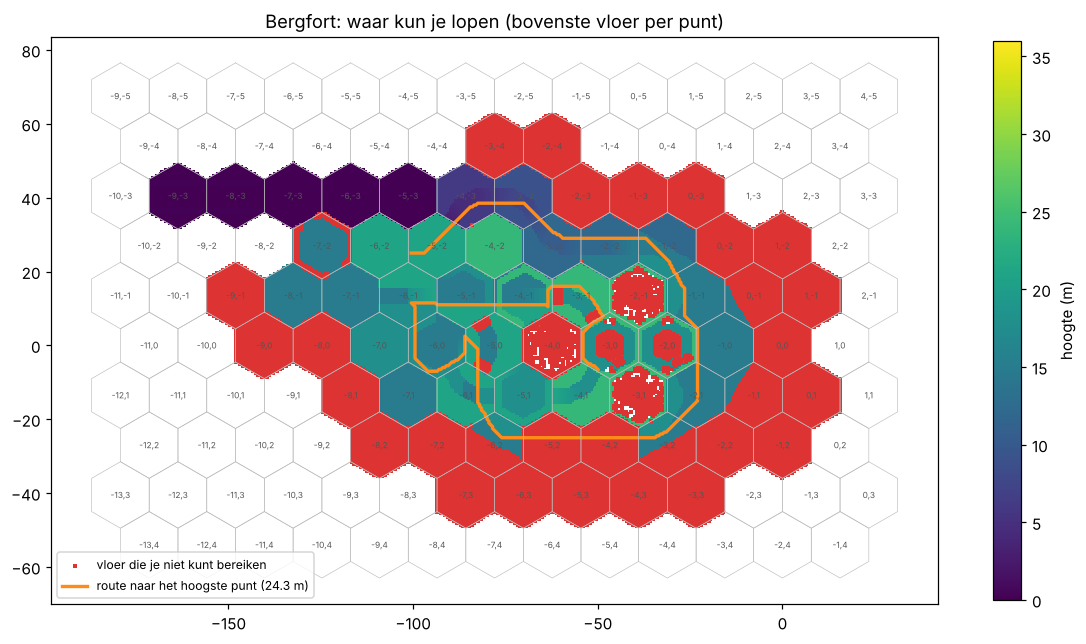
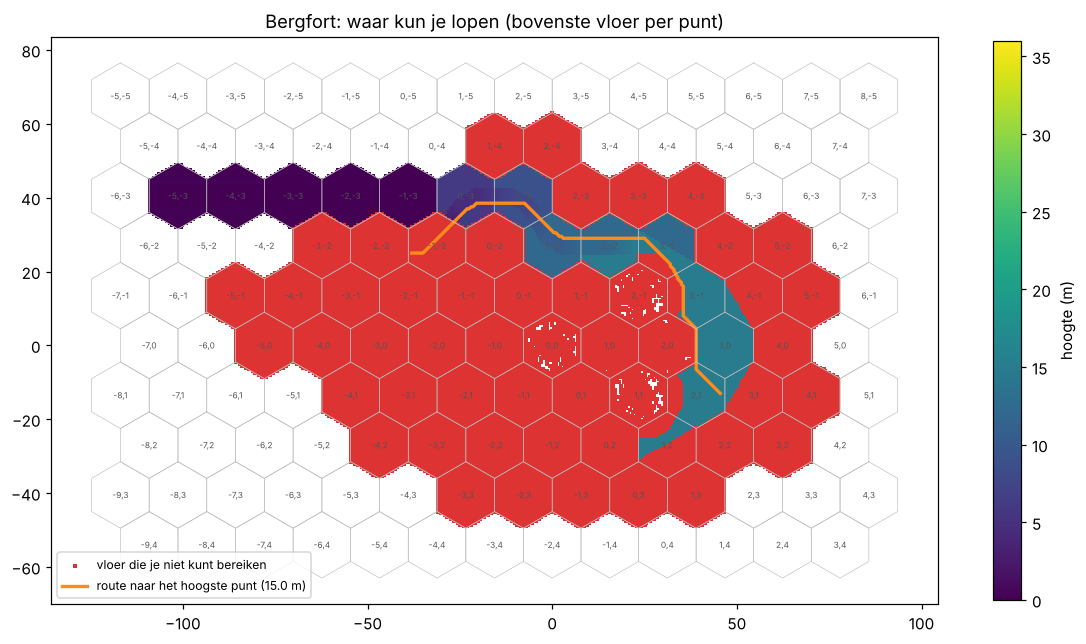
Bergfort aanvullen in de stad: een SketchUp-module springt bovenop wat onder de muis staat (op halve verdiepingen), en 'Bewaar de stad als fort' maakt een eigen fort in de Modulekaart met 'Download voor Claude' (JSON voor looproute.py en pad_af.py)
Claude-Session: https://claude.ai/code/session_017Uwb8JbaAuPpTgYy4yJLGS

diff --git a/src/js/15j3-skp-bouwen.js b/src/js/15j3-skp-bouwen.js
@@ -41,10 +41,26 @@
       while (ghost.children.length) ghost.remove(ghost.children[0]);
       for (const it of st.items) { const A = rot(it.a, st.k), d = rot([it.d[0], it.d[1], 0, 0, 0, 0, 0, 0, 0], st.k); const me = new THREE.Mesh(worldGeo(it.mi), ghostMat); me.matrixAutoUpdate = false; matrix(it.mi, A, [d[0], d[1], it.h + st.dh], me.matrix); me.matrixWorldNeedsUpdate = true; ghost.add(me); }
     }
+    // de bovenkant van de SketchUp-modules in een vak (0 als er niets staat)
+    function stapelTop(q, r) {
+      let top = -Infinity; const b = new THREE.Box3();
+      for (const me of group.children) { const rec = cells.skp[me.userData.skp]; if (rec && rec.q === q && rec.r === r) top = Math.max(top, b.setFromObject(me).max.y); }
+      return top;
+    }
+    const ray = new THREE.Raycaster(), ndc = new THREE.Vector2();
     function moveGhost(cx, cy) {
+      // eerst de SketchUp-modules zelf: een bovenkant onder de muis = daarop bouwen, een zijkant = bovenop die stapel
+      ndc.set(cx / window.innerWidth * 2 - 1, -(cy / window.innerHeight) * 2 + 1); ray.setFromCamera(ndc, camera);
+      const hm = ray.intersectObjects(group.children)[0];
+      if (hm) {
+        const [q, r] = worldToCell(hm.point.x, hm.point.z), w = cellToWorld(q, r), n = hm.face ? hm.face.normal.clone().transformDirection(hm.object.matrixWorld) : null;
+        const op = n && Math.abs(n.y) > 0.7 ? hm.point.y : stapelTop(q, r);
+        st.cell = [q, r]; st.base = Math.max(terrainHeightAt(w.x, w.z), Math.round((isFinite(op) ? op : hm.point.y) / 1.5) * 1.5);
+        ghost.position.set(w.x, st.base, w.z); ghost.visible = true; setHint(); return;
+      }
       const h = pick(cx, cy); if (!h || !h.point) { ghost.visible = false; st.cell = null; return; }
       const [q, r] = worldToCell(h.point.x, h.point.z), w = cellToWorld(q, r);
-      st.cell = [q, r]; st.base = terrainHeightAt(w.x, w.z);
+      st.cell = [q, r]; st.base = Math.max(terrainHeightAt(w.x, w.z), stapelTop(q, r)); setHint();
       ghost.position.set(w.x, st.base, w.z); ghost.visible = true;
     }
     function place() {
@@ -64,7 +80,7 @@
       const hit = ray.intersectObjects(group.children)[0]; if (!hit) return toast('Hier staat geen SketchUp-module', 1200);
       const i = hit.object.userData.skp, n = cells.skp[i].n; cells.skp.splice(i, 1); build(); changed(); toast(n + ' weggehaald', 1200);
     }
-    function setHint() { hint.innerHTML = `<b>${st.naam}</b> neerzetten${st.k ? ' · ' + st.k * 60 + '° gedraaid' : ''}${st.dh ? ' · ' + (st.dh > 0 ? '+' : '') + st.dh + ' m' : ''}<small>klik = neerzetten · R = draaien · Page Up/Down = hoger/lager · Shift+klik = weghalen · Backspace = terug · Esc = klaar</small>`; }
+    function setHint() { hint.innerHTML = `<b>${st.naam}</b> neerzetten${st.k ? ' · ' + st.k * 60 + '° gedraaid' : ''}${st.cell ? ' · op ' + String(+(st.base + st.dh).toFixed(1)).replace('.', ',') + ' m' : ''}<small>klik = neerzetten (bovenop wat onder de muis staat) · R = draaien · Page Up/Down = hoger/lager · Shift+klik = weghalen · Backspace = terug · Esc = klaar</small>`; }
     function start(opt) {
       if (mode === 'walk') { document.getElementById('modeBtn').click(); }
       st.items = []; st.k = 0; st.dh = 0;
@@ -76,6 +92,33 @@
         st.items = P.map(p => ({ mi: p.mi, a: p.a, d: [p.m[0] - mid[0], p.m[1] - mid[1]], h: p.m[2] })); st.naam = F.forten[opt.fort].naam;
       } else { st.items = [{ mi: idx.get(opt.naam), a: ID, d: [0, 0], h: 0 }]; st.naam = opt.naam; }
       st.on = true; buildGhost(); setHint(); hint.hidden = false;
+    }
+    // ---------- de SketchUp-modules in de stad bewaren als fort (eigen versie van het bergfort) ----------
+    // Een eigen fort staat in localStorage (raat-eigen-forten) en verschijnt als pagina in de Modulekaart. Download geeft
+    // hetzelfde als JSON voor de gereedschappen in tools/sketchup (looproute.py, pad_af.py): { plaatsen: [[naam, matrix]] }.
+    const EIGEN = 'raat-eigen-forten';
+    const eigen = (() => { try { return JSON.parse(localStorage.getItem(EIGEN) || '[]'); } catch (e) { return []; } })();
+    for (const f of eigen) F.forten.push(f);
+    function alsFort(naam) {
+      const L = (cells && cells.skp) || []; if (!L.length) return null;
+      const y0 = Math.min(...L.map(r => r.y)), mq = Math.round(L.reduce((a, r) => a + r.q, 0) / L.length), mr = Math.round(L.reduce((a, r) => a + r.r, 0) / L.length);
+      const [sx, sy] = suMid(mq, mr), p = [];
+      for (const rec of L) {
+        const mi = idx.get(rec.n); if (mi === undefined) continue;
+        const A = rec.a || ID, c = F.mods[mi].c, cx = c[0] / 100, cy = c[1] / 100, [x, y] = suMid(rec.q, rec.r), o = rec.o || [0, 0];
+        const P = [x + o[0] - sx, y + o[1] - sy, rec.y - y0];
+        p.push([mi, ...A.map(v => +v.toFixed(5)), ...[P[0] - (A[0] * cx + A[3] * cy), P[1] - (A[1] * cx + A[4] * cy), P[2] - (A[2] * cx + A[5] * cy)].map(v => Math.round(v * 100))]);
+      }
+      let fi = F.forten.findIndex(f => f.naam === naam);
+      const f = { naam, p, eigen: true };
+      if (fi < 0) { F.forten.push(f); fi = F.forten.length - 1; } else F.forten[fi] = f;
+      try { localStorage.setItem(EIGEN, JSON.stringify(F.forten.filter(x => x.eigen))); } catch (e) { }
+      return fi;
+    }
+    function download(fi) {
+      const f = F.forten[fi], plaatsen = f.p.map(p => [F.mods[p[0]].n, [p[1], p[2], p[3], 0, p[4], p[5], p[6], 0, p[7], p[8], p[9], 0, p[10], p[11], p[12], 1]]);
+      const a = document.createElement('a'); a.href = URL.createObjectURL(new Blob([JSON.stringify({ bestand: 'webversie: ' + f.naam, plaatsen })], { type: 'application/json' }));
+      a.download = 'raatstad-' + f.naam.toLowerCase().replace(/[^a-z0-9]+/g, '-').replace(/^-|-$/g, '') + '.json'; document.body.appendChild(a); a.click(); a.remove(); setTimeout(() => URL.revokeObjectURL(a.href), 5000);
     }
     function stop() { st.on = false; ghost.visible = false; hint.hidden = true; }
     window.addEventListener('pointermove', e => { if (st.on && e.target === canvas) moveGhost(e.clientX, e.clientY); });
@@ -95,5 +138,6 @@
       else used = false;
       if (used) { e.preventDefault(); e.stopImmediatePropagation(); }
     }, true);
-    return { build, start, stop, get on() { return st.on; } };
+    return { build, start, stop, alsFort, download, get on() { return st.on; }, get aantal() { return ((cells && cells.skp) || []).length; } };
   })();
+  window.__skpBouw = skpBouw;   // voor de visuele tests

diff --git a/test/visueel/skp_aanvullen.js b/test/visueel/skp_aanvullen.js
@@ -1,0 +1,34 @@
+// Het bergfort in de stad aanvullen: een module springt bovenop het fort, en de stad wordt bewaard als eigen fort (met download).
+const { open, OUT } = require('./helper');
+const path = require('path');
+(async () => {
+  const { b, p } = await open({ width: 1440, height: 900 });
+  await p.evaluate(() => window.__SC().doAct('empty')); await p.waitForTimeout(800);
+  await p.keyboard.press('KeyK'); await p.waitForTimeout(500);
+  await p.evaluate(() => [...document.querySelectorAll('.mk-seg button')].find(x => x.textContent === 'Bergfort').click()); await p.waitForTimeout(1200);
+  await p.evaluate(() => document.querySelector('[data-zet]').click()); await p.waitForTimeout(500);
+  await p.mouse.move(720, 450); await p.waitForTimeout(300); await p.mouse.click(722, 452); await p.waitForTimeout(800);
+  await p.keyboard.press('Escape'); await p.waitForTimeout(300);
+  await p.evaluate(() => { const S = window.__SC(); S.orbit.radius = Math.max(60, S.orbit.radius * 0.5); S.applyOrbit(); }); await p.waitForTimeout(800);
+  // een losse module boven het fort: hoe hoog komt hij?
+  await p.evaluate(() => window.__skpBouw.start({ naam: 'Plateau · met muurtjes' }));
+  let hoog = null;
+  for (const [x, y] of [[720, 420], [700, 400], [760, 430], [680, 460]]) {
+    await p.mouse.move(x, y); await p.waitForTimeout(250); await p.mouse.move(x + 2, y + 2); await p.waitForTimeout(250);
+    hoog = await p.evaluate(() => { const m = /op ([\d,]+) m/.exec(document.querySelector('.skp-hint').textContent); return m ? +m[1].replace(',', '.') : null; });
+    if (hoog > 3) { await p.screenshot({ path: path.join(OUT, 'skp-aanvullen-spook.png') }); await p.mouse.click(x + 2, y + 2); await p.waitForTimeout(600); break; }
+  }
+  await p.keyboard.press('Escape'); await p.waitForTimeout(300);
+  console.log('hoogte bovenop het fort:', hoog, 'modules:', await p.evaluate(() => window.__skpBouw.aantal));
+  // bewaren als eigen fort
+  await p.keyboard.press('KeyK'); await p.waitForTimeout(500);
+  await p.evaluate(() => [...document.querySelectorAll('.mk-seg button')].find(x => x.textContent === 'Bergfort').click()); await p.waitForTimeout(1000);
+  await p.evaluate(() => document.querySelector('[data-bewaar]').click()); await p.waitForTimeout(1500);
+  const info = await p.evaluate(() => ({ paginas: [...document.querySelectorAll('.mk-seg button')].map(x => x.textContent), zij: document.querySelector('.mk-side h3, h3').textContent, sub: document.querySelector('.sub') && document.querySelector('.sub').textContent, opgeslagen: JSON.parse(localStorage.getItem('raat-eigen-forten') || '[]').map(f => [f.naam, f.p.length]) }));
+  console.log(JSON.stringify(info));
+  await p.screenshot({ path: path.join(OUT, 'skp-eigen-fort.png') });
+  const [dl] = await Promise.all([p.waitForEvent('download', { timeout: 5000 }), p.evaluate(() => document.querySelector('[data-down]').click())]);
+  const f = path.join(OUT, 'skp-eigen-fort.json'); await dl.saveAs(f);
+  const J = require(f); console.log('download:', dl.suggestedFilename(), J.plaatsen.length, 'plaatsen', JSON.stringify(J.plaatsen[0]).slice(0, 120));
+  await b.close();
+})();

diff --git a/src/js/15j-modulekaart.js b/src/js/15j-modulekaart.js
@@ -166,6 +166,14 @@
         const fi = +st.page.slice(4), tel = fortKijker.telling(fi), tot = tel.reduce((a, b) => a + b[1], 0);
         side.innerHTML = `<h3>${fortKijker.forten[fi]}</h3><div class="sub">${tot} modules, ${tel.length} soorten · opgebouwd uit de modules van de kaart</div><button class="btn mk-zet" type="button" data-zet>In de stad zetten</button><h4>Gebruikte modules</h4><div data-l></div><p class="mk-leeg" style="margin-top:12px">Klik een module in de lijst of in het fort: alle plekken waar hij staat lichten op.</p>`;
         side.querySelector('[data-zet]').onclick = () => { toggle(false); skpBouw.start({ fort: fi }); };
+        // aanvullen in de stad en terugzetten als fort: "Bewaar de stad als fort" neemt alle SketchUp-modules in de stad over
+        const eig = SKP_FORTEN.forten[fi].eigen, naamEigen = eig ? fortKijker.forten[fi] : fortKijker.forten[fi] + ' (eigen)';
+        side.querySelector('[data-zet]').insertAdjacentHTML('afterend', `<button class="btn mk-zet" type="button" data-bewaar title="Alle SketchUp-modules die nu in de stad staan, worden het fort ${naamEigen}">Bewaar de stad als ${naamEigen}</button>` + (eig ? '<button class="btn mk-zet" type="button" data-down title="Een JSON-bestand om aan Claude te geven: daarmee rekent hij de looproute opnieuw uit">Download voor Claude</button>' : ''));
+        side.querySelector('[data-bewaar]').onclick = () => {
+          if (!skpBouw.aantal) return toast('Er staan nog geen SketchUp-modules in de stad: zet eerst het fort neer en vul het aan', 2600);
+          const nf = skpBouw.alsFort(naamEigen); fortKijker.close(); st.page = 'fort' + nf; st.sel = null; render(); toast(naamEigen + ' bewaard (' + skpBouw.aantal + ' modules)', 1800);
+        };
+        if (eig) side.querySelector('[data-down]').onclick = () => skpBouw.download(fi);
         const l = side.querySelector('[data-l]');
         for (const [n, c] of tel) { const b = document.createElement('button'); b.type = 'button'; b.className = 'mk-mod'; b.setAttribute('aria-pressed', st.sel === n); b.innerHTML = '<span></span><small>' + c + '×</small>'; b.firstChild.textContent = n; b.onclick = () => { st.sel = st.sel === n ? null : n; fortKijker.kijker.highlight(st.sel); renderSide(); }; l.appendChild(b); }
         return;

diff --git a/src/js/15j2-fortkijker.js b/src/js/15j2-fortkijker.js
@@ -75,6 +75,6 @@
     }
     function close() { if (!R) return; R.ro.disconnect(); R.mats.forEach(m => m.dispose()); R.renderer.dispose(); R.cv.remove(); R = null; }
     const telling = fi => { const c = new Map(); for (const p of F.forten[fi].p) { const n = F.mods[p[0]].n; c.set(n, (c.get(n) || 0) + 1); } return [...c].sort((a, b) => b[1] - a[1]); };
-    return { open, close, telling, vorm, forten: F.forten.map(f => f.naam), get kijker() { return R; } };
+    return { open, close, telling, vorm, get forten() { return F.forten.map(f => f.naam); }, get kijker() { return R; } };
   })();
   window.__fortKijker = fortKijker;   // voor de visuele tests

diff --git a/tools/sketchup/export-alles-console.rb b/tools/sketchup/export-alles-console.rb
@@ -1,0 +1,1 @@
+require 'json'; m=Sketchup.active_model; r=->(v){(v.to_m*100).round/100.0}; pt=->(v,t){ p=v.position.transform(t); [r.(p.x),r.(p.y),r.(p.z)] }; inst=[]; los=[]; walk=nil; walk=->(ents,t,pad){ ents.each{|e| if e.is_a?(Sketchup::Face) then los << {'pad'=>pad,'c'=>(e.material ? e.material.color.to_a[0,3] : nil),'p'=>e.outer_loop.vertices.map{|v| pt.(v,t)},'gaten'=>e.loops.reject(&:outer?).map{|l| l.vertices.map{|v| pt.(v,t)}}} elsif e.is_a?(Sketchup::Group)||e.is_a?(Sketchup::ComponentInstance) then n=e.definition.name; tt=t*e.transformation; inst << {'pad'=>pad,'n'=>n,'naam'=>e.name.to_s,'groep'=>e.is_a?(Sketchup::Group),'m'=>tt.to_a,'verborgen'=>(e.hidden? || !e.layer.visible?)}; walk.(e.definition.entities, tt, pad+[e.name.to_s.empty? ? n : e.name.to_s]) unless n.include?('·') end }}; walk.(m.entities, Geom::Transformation.new, []); f='G:/Mijn Drive/Projecten/hexgrid city concept/raatstad-berg-alles.json'; File.write(f, JSON.generate({'bestand'=>m.path,'instanties'=>inst,'los'=>los})); puts "klaar: #{inst.size} groepen en componenten, #{los.size} losse vlakken"

diff --git a/tools/sketchup/pad_af.py b/tools/sketchup/pad_af.py
@@ -152,3 +152,12 @@ def toepassen(P, gedaan):
         for pi in g['weg']: P[pi] = None
         P.extend([list(e) for e in g['erbij']])
     return [p for p in P if p is not None]
+
+if __name__ == '__main__':
+    # een eigen fort uit de webversie (Modulekaart, "Download voor Claude"): looproute afmaken en wegschrijven als <naam>-af.json
+    import sys, json, os
+    fn = sys.argv[1]; P = json.load(open(fn))['plaatsen']
+    P2, gedaan, nu = verbind(P, len(P), log=lambda *a: print(*a, flush=True))
+    uit = os.path.splitext(fn)[0] + '-af.json'
+    json.dump({'bestand': fn + ' (looproute afgemaakt)', 'plaatsen': P2, 'gedaan': [g['wat'] for g in gedaan]}, open(uit, 'w'), ensure_ascii=False)
+    print('geschreven:', uit, '·', len(gedaan), 'aanpassingen'); [print('  ', g['wat']) for g in gedaan]
